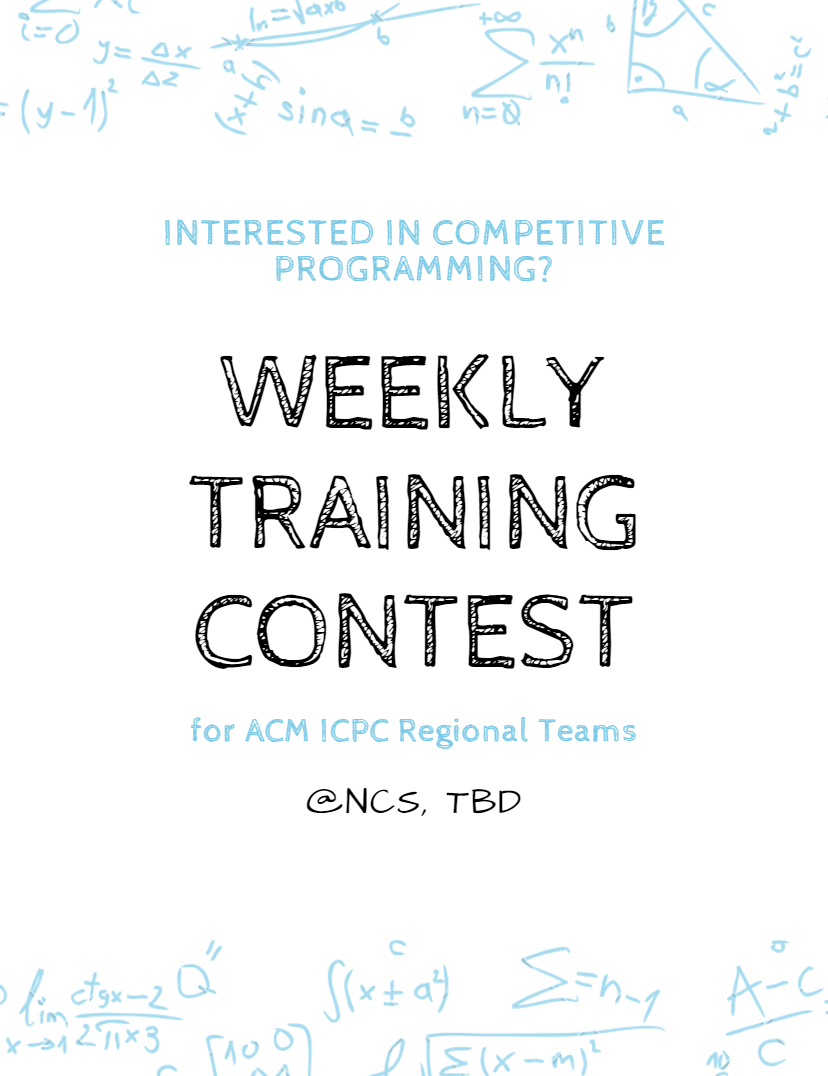
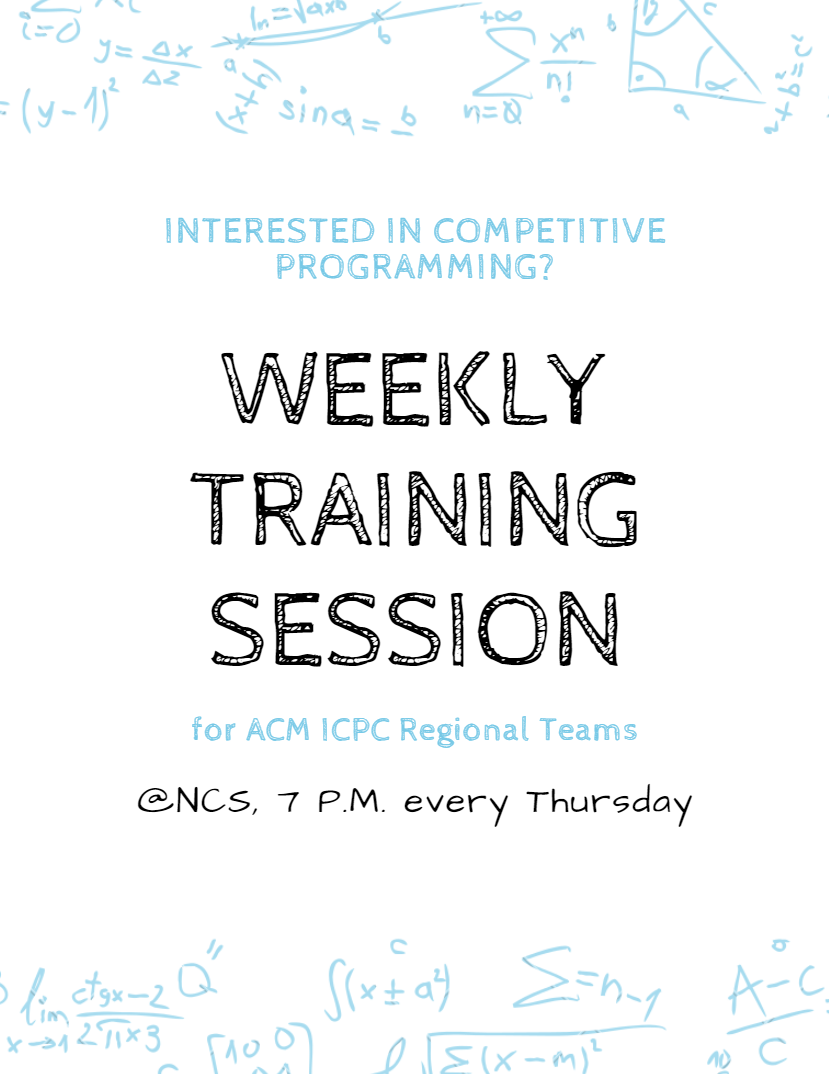
Update time in text and poster.

diff --git a/index.html b/index.html
@@ -49,13 +49,13 @@
 				<a href="#" class="image fit"><img src="images/events/flyers/2019WeeklyTrainingContest.png" alt="" /></a>
 				<div class="inner">
 					<header>
-						<h2>Weekly Training Contest for ACM ICPC Regional Teams</h2>
+						<h2>Weekly Training Session for ACM ICPC Regional Teams</h2>
 					</header>
 					<p>
 						Location: NCS 115
 					</p>
 					<p>
-						Time: TBD
+						Time: 7 P.M. every Thursday
 					</p>
 				</div>
 			</article>
